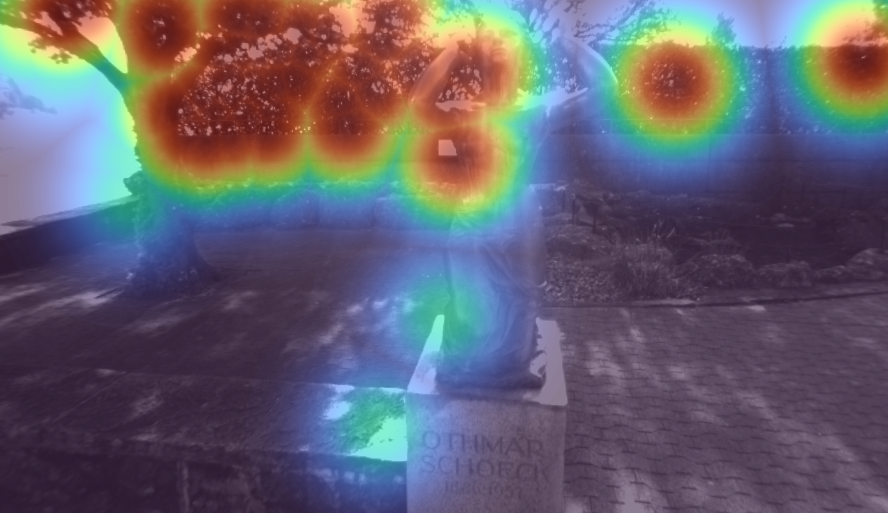
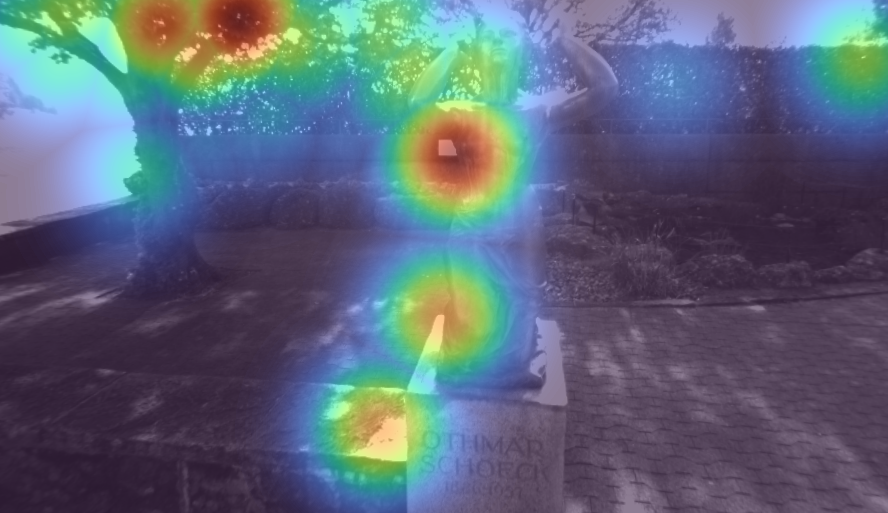
Update to weigh closer higher

diff --git a/src/hazard_cv/pair_stereo.py b/src/hazard_cv/pair_stereo.py
@@ -1,4 +1,8 @@
-"""Rectified-stereo pair from two image paths (ETH3D two_view style) → disparity + hazard map."""
+"""Rectified-stereo pair from two image paths (ETH3D two_view style) → disparity + hazard map.
+
+If both images are in the same folder and ``calib.txt`` exists there, we auto-load it
+and use its disparity offset (``doffs``) for proximity weighting.
+"""
 
 from __future__ import annotations
 
@@ -10,6 +14,7 @@ import cv2
 import numpy as np
 
 from hazard_cv.depth.stereo import sgbm_disparity_rectified, suggest_num_disparities
+from hazard_cv.eth3d.two_view import MiddleburyCalib, read_middlebury_calib
 from hazard_cv.geometry.hazard_map_dense import blend_hazard_map, build_hazard_heatmap, heatmap_to_bgr
 from hazard_cv.geometry.hazards import CornerHazard, detect_corner_hazards
 from hazard_cv.viz.overlay import colorize_disparity, draw_corner_hazards, save_image
@@ -49,6 +54,7 @@ def run_stereo_hazard_map(
     harris_thresh: float = 1e-5,
     sigma_px: float = 45.0,
     blend_alpha: float = 0.55,
+    calib: MiddleburyCalib | None = None,
 ) -> PairHazardResult:
     h, w = left_bgr.shape[:2]
     if num_disparities <= 0:
@@ -57,7 +63,14 @@ def run_stereo_hazard_map(
         left_bgr, right_bgr, num_disparities=num_disparities, min_disparity=min_disparity
     )
     corners = detect_corner_hazards(left_bgr, harris_thresh=harris_thresh)
-    heat = build_hazard_heatmap(h, w, corners, sigma_px=sigma_px)
+    corner_proximity = _corner_proximity_from_disparity(corners, disp, calib=calib)
+    heat = build_hazard_heatmap(
+        h,
+        w,
+        corners,
+        sigma_px=sigma_px,
+        corner_weights=corner_proximity,
+    )
     heat_bgr = heatmap_to_bgr(heat)
     overlay = blend_hazard_map(left_bgr, heat_bgr, alpha=blend_alpha)
     return PairHazardResult(
@@ -70,6 +83,60 @@ def run_stereo_hazard_map(
         overlay_bgr=overlay,
         heat_only_bgr=heat_bgr,
     )
+
+
+def _corner_proximity_from_disparity(
+    corners: List[CornerHazard],
+    disparity: np.ndarray,
+    *,
+    calib: MiddleburyCalib | None = None,
+) -> np.ndarray:
+    """Convert per-corner stereo signal to [0,1] proximity (nearer -> larger)."""
+    if not corners:
+        return np.zeros((0,), dtype=np.float32)
+    h, w = disparity.shape[:2]
+    sampled = np.zeros((len(corners),), dtype=np.float32)
+    valid = np.zeros((len(corners),), dtype=bool)
+    doffs = float(calib.doffs) if calib is not None else 0.0
+    for i, c in enumerate(corners):
+        u = int(np.clip(round(c.u), 0, w - 1))
+        v = int(np.clip(round(c.v), 0, h - 1))
+        d_raw = float(disparity[v, u])
+        d_eff = d_raw + doffs
+        if np.isfinite(d_eff) and d_eff > 0.0:
+            sampled[i] = d_eff
+            valid[i] = True
+    if not np.any(valid):
+        return np.ones((len(corners),), dtype=np.float32)
+    lo = float(np.percentile(sampled[valid], 5))
+    hi = float(np.percentile(sampled[valid], 95))
+    if hi <= lo + 1e-6:
+        weights = np.ones((len(corners),), dtype=np.float32)
+        weights[~valid] = 0.5
+        return weights
+    norm = (sampled - lo) / (hi - lo)
+    norm = np.clip(norm, 0.0, 1.0).astype(np.float32)
+    norm[~valid] = 0.5
+    return norm
+
+
+def _auto_load_calibration(
+    left_path: Path, right_path: Path
+) -> tuple[MiddleburyCalib | None, Path | None, Path | None]:
+    """Load calib.txt from shared image folder when available."""
+    ldir = Path(left_path).resolve().parent
+    rdir = Path(right_path).resolve().parent
+    if ldir != rdir:
+        return None, None, None
+    calib_path = ldir / "calib.txt"
+    cameras_path = ldir / "cameras.txt"
+    if not calib_path.is_file():
+        return None, None, (cameras_path if cameras_path.is_file() else None)
+    try:
+        calib = read_middlebury_calib(calib_path)
+    except Exception:
+        return None, calib_path, (cameras_path if cameras_path.is_file() else None)
+    return calib, calib_path, (cameras_path if cameras_path.is_file() else None)
 
 
 def save_hazard_map_bundle(
@@ -123,6 +190,7 @@ def main_pair_cli(argv: list[str] | None = None) -> int:
     p.add_argument("--blend", type=float, default=0.55, help="Alpha for heat over left image")
     args = p.parse_args(a)
 
+    calib, calib_path, cameras_path = _auto_load_calibration(args.left, args.right)
     left, right = load_stereo_pair(args.left, args.right)
     res = run_stereo_hazard_map(
         left,
@@ -132,8 +200,14 @@ def main_pair_cli(argv: list[str] | None = None) -> int:
         harris_thresh=float(args.harris_thresh),
         sigma_px=float(args.sigma),
         blend_alpha=float(args.blend),
+        calib=calib,
     )
     save_hazard_map_bundle(res, args.output, save_sidecars=not args.no_extra)
+    if calib is not None and calib_path is not None:
+        msg = f"Using calibration: {calib_path}"
+        if cameras_path is not None:
+            msg += f" (found {cameras_path.name})"
+        print(msg)
     print(str(Path(args.output).resolve()))
     return 0
 

diff --git a/src/hazard_cv/geometry/hazard_map_dense.py b/src/hazard_cv/geometry/hazard_map_dense.py
@@ -17,17 +17,35 @@ def build_hazard_heatmap(
     width: int,
     corners: List[CornerHazard],
     sigma_px: float = 45.0,
+    corner_weights: np.ndarray | None = None,
 ) -> np.ndarray:
     """
-    Return float32 HxW in [0,1]: splatted sum of per-level weights with Gaussian falloff.
+    Return float32 HxW in [0,1]: splatted hazard with Gaussian falloff.
+
+    Weighting is proximity-first:
+    - disparity proximity drives most of the hazard weight
+    - corner severity provides an additional boost
+    This enforces: near objects > far objects, and near+sharp corners are strongest.
     """
     h = np.zeros((height, width), dtype=np.float32)
     if not corners or sigma_px <= 0:
         return h
     sig2 = 2.0 * float(sigma_px) ** 2
     yy, xx = np.mgrid[0:height, 0:width].astype(np.float32)
-    for c in corners:
-        w0 = _LEVEL_WEIGHT.get(c.level, 0.3)
+    if corner_weights is None:
+        weights = np.ones((len(corners),), dtype=np.float32)
+    else:
+        weights = np.asarray(corner_weights, dtype=np.float32)
+        if weights.shape[0] != len(corners):
+            raise ValueError("corner_weights must have same length as corners")
+        weights = np.clip(weights, 0.0, 1.0)
+    for c, prox_w in zip(corners, weights):
+        level_w = _LEVEL_WEIGHT.get(c.level, 0.3)
+        prox = float(np.clip(prox_w, 0.0, 1.0))
+        # Proximity dominates; corner level amplifies the close hazards.
+        base = 0.85 * prox + 0.15 * level_w
+        synergy = 1.0 + 0.45 * prox * level_w
+        w0 = float(np.clip(base * synergy, 0.0, 1.5))
         dy = yy - c.v
         dx = xx - c.u
         g = np.exp(-(dx * dx + dy * dy) / sig2) * w0
